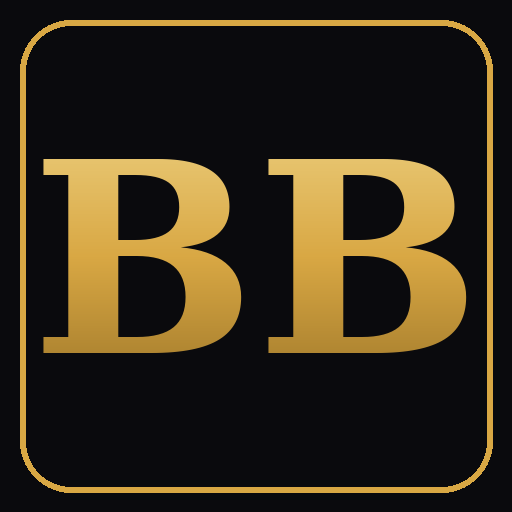
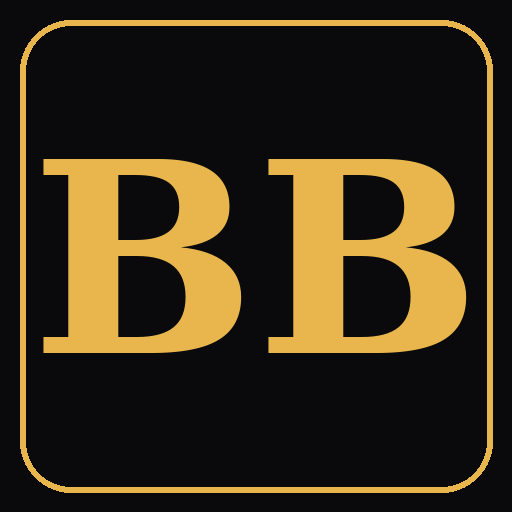
Add files via upload

diff --git a/index.html b/index.html
@@ -18,8 +18,8 @@
   --bg: #0a0a0d;
   --panel: rgba(255,255,255,0.025);
   --border: rgba(255,255,255,0.08);
-  --gold: #d9a844;
-  --gold-dim: rgba(217,168,68,0.12);
+  --gold: #E8B64C;
+  --gold-dim: rgba(232,182,76,0.12);
   --text: #e2e8f0;
   --muted: #9aa7bd;
   --faint: #9aa8c2;
@@ -28,9 +28,9 @@
   --blue: #3b82f6;
   --purple: #8b5cf6;
   --cyan: #1fd3ee;
-  --accent: #d9a844;          /* switches per business in render() */
-  --accent-dim: rgba(217,168,68,0.12);
-  --accent-brd: rgba(217,168,68,0.35);
+  --accent: #E8B64C;          /* switches per business in render() */
+  --accent-dim: rgba(232,182,76,0.12);
+  --accent-brd: rgba(232,182,76,0.35);
 }
 body {
   background: var(--bg);
@@ -105,7 +105,7 @@ header.app .logo-wrap { width: min(440px, 86vw); margin: 0 auto; cursor: pointer
 .biz-tab {
   padding: 13px 10px; border-radius: 10px; cursor: pointer; text-align: center;
   border: 1px solid var(--border); background: var(--panel);
-  font-size: 14px; letter-spacing: 0.12em; color: var(--muted); font-weight: 600;
+  font-size: 14px; letter-spacing: 0.12em; color: var(--muted); font-weight: 800;
   transition: all .2s;
 }
 .biz-tab.active { color: #fff; }
@@ -143,9 +143,9 @@ header.app .logo-wrap { width: min(440px, 86vw); margin: 0 auto; cursor: pointer
   <header class="app">
     <div class="logo-wrap" id="headerLogo" title="Click to upload your logo PNG"></div>
     <div style="display:flex;align-items:center;gap:12px;">
-      <div style="height:1px;flex:1;background:linear-gradient(90deg,transparent,rgba(217,168,68,0.45))"></div>
-      <div style="font-size:12px;letter-spacing:0.34em;color:var(--gold);">MASTER BUSINESS DASHBOARD</div>
-      <div style="height:1px;flex:1;background:linear-gradient(90deg,rgba(217,168,68,0.45),transparent)"></div>
+      <div style="height:1px;flex:1;background:linear-gradient(90deg,transparent,rgba(232,182,76,0.45))"></div>
+      <div style="font-size:12px;letter-spacing:0.34em;color:var(--gold);font-weight:800;">MASTER BUSINESS DASHBOARD</div>
+      <div style="height:1px;flex:1;background:linear-gradient(90deg,rgba(232,182,76,0.45),transparent)"></div>
     </div>
   </header>
   <input type="file" id="logoFile" accept="image/*" style="display:none">
@@ -178,27 +178,12 @@ const esc = s => String(s ?? "").replace(/[&<>"']/g, c => ({'&':'&amp;','<':'&lt
 // ---------- Default logo (SVG recreation of "BIG BUSINESS" gold wordmark) ----------
 let _logoN = 0;
 function logoSVG() {
-  const g = "gg" + (_logoN++); // unique gradient ids per instance
   return `
   <svg viewBox="0 0 970 190" xmlns="http://www.w3.org/2000/svg" style="width:100%;display:block">
-    <defs>
-      <linearGradient id="${g}" x1="0" y1="0" x2="0" y2="1">
-        <stop offset="0%" stop-color="#fdf0b0"/>
-        <stop offset="30%" stop-color="#e9c561"/>
-        <stop offset="52%" stop-color="#a5761f"/>
-        <stop offset="66%" stop-color="#e3b64e"/>
-        <stop offset="85%" stop-color="#c1922f"/>
-        <stop offset="100%" stop-color="#6e4f14"/>
-      </linearGradient>
-      <linearGradient id="${g}e" x1="0" y1="0" x2="0" y2="1">
-        <stop offset="0%" stop-color="#fff6cf"/>
-        <stop offset="100%" stop-color="#3c2a08"/>
-      </linearGradient>
-    </defs>
     <text x="485" y="132" text-anchor="middle"
-      font-family="Cinzel, 'Times New Roman', Georgia, serif" font-weight="700"
+      font-family="Cinzel, 'Times New Roman', Georgia, serif" font-weight="900"
       font-size="118" letter-spacing="4"
-      fill="url(#${g})" stroke="url(#${g}e)" stroke-width="1.6">BIG BUSINESS</text>
+      fill="#E8B64C">BIG BUSINESS</text>
   </svg>`;
 }
 function logoHTML() {
@@ -209,7 +194,7 @@ function logoHTML() {
 
 // ---------- Businesses ----------
 const BIZ = {
-  centauri: { name: "🌐 CENTAURI WORLD LLC", short: "Centauri", accent: "#C4993A" },
+  centauri: { name: "🌐 CENTAURI WORLD LLC", short: "Centauri", accent: "#E8B64C" },
   keypr:    { name: "🔑 KEYPR ON COMPANY",  short: "Keypr",    accent: "#1fd3ee" },
 };
 const TABS = [
@@ -283,7 +268,7 @@ function defaultState() {
         subtitle:"Logo · Typography · Color System · Assets", status:"nearly-done",
         steps:[
           {id:1,status:"done",label:"Brand Direction Set",detail:"Custom dot-sphere globe logo chosen",sub:"Rejected: Crux, Meridian, Binary Orbit concepts"},
-          {id:2,status:"done",label:"Color Palette Finalized",detail:"Deep Space · Electric Blue · Stellar Silver · Centauri Gold",sub:"#070B16 · #1A6AE8 · #8A9AB5 · #C4993A"},
+          {id:2,status:"done",label:"Color Palette Finalized",detail:"Deep Space · Electric Blue · Stellar Silver · Centauri Gold",sub:"#070B16 · #1A6AE8 · #8A9AB5 · #E8B64C"},
           {id:3,status:"done",label:"Typography System",detail:"Outfit Bold (CENTAURI) + Outfit Light (WORLD)",sub:"Body: DM Sans"},
           {id:4,status:"done",label:"14 SVG Files Produced",detail:"Primary, monochrome, icon, stacked, wordmark",sub:"Full production-ready asset suite"},
           {id:5,status:"upcoming",label:"Apply to Walmart Listings",detail:"Use brand assets in product imagery",sub:"Seller Center listing images & storefront"},
@@ -305,7 +290,7 @@ function defaultState() {
         legal: "Centauri World LLC", brands: "Centauri World",
         marketplaces: "Walmart Marketplace (Seller Center)",
         ids: "UNI2: 3406107934 · UNI5: 591166907",
-        colors: "#070B16 Deep Space · #1A6AE8 Electric Blue · #8A9AB5 Stellar Silver · #C4993A Centauri Gold",
+        colors: "#070B16 Deep Space · #1A6AE8 Electric Blue · #8A9AB5 Stellar Silver · #E8B64C Centauri Gold",
         notes: "Typography: Outfit Bold/Light + DM Sans. 14 production SVG assets ready.",
       },
       keypr: {
@@ -461,7 +446,7 @@ function rProjects(biz) {
     <div class="stat"><div class="lbl">⏳ WAITING ON</div><div class="val" style="color:var(--amber)">${st.waiting}</div></div>
   </div>
   <div style="height:3px;background:rgba(255,255,255,0.05);border-radius:2px;overflow:hidden;margin-bottom:14px;">
-    <div style="height:100%;width:${st.pct}%;background:linear-gradient(90deg,${BIZ[biz].accent},var(--green));transition:width 1s ease"></div>
+    <div style="height:100%;width:${st.pct}%;background:${BIZ[biz].accent};transition:width 1s ease"></div>
   </div>`;
   if (ui.showNewProject) {
     html += `<div class="form-panel">
@@ -1464,7 +1449,7 @@ function centauriLogoSVG() {
     <text x="230" y="46" text-anchor="middle" font-family="Cinzel, 'Times New Roman', Georgia, serif" font-weight="700" font-size="36"
       textLength="436" lengthAdjust="spacingAndGlyphs" fill="#1A6AE8">CENTAURI WORLD</text>
     <text x="230" y="86" text-anchor="middle" font-family="Cinzel, 'Times New Roman', Georgia, serif" font-weight="900" font-size="19"
-      textLength="100" lengthAdjust="spacingAndGlyphs" fill="#C4993A">LLC</text>
+      textLength="100" lengthAdjust="spacingAndGlyphs" fill="#E8B64C">LLC</text>
   </svg>`;
 }
 function docSecHdr(id, title, count, open){